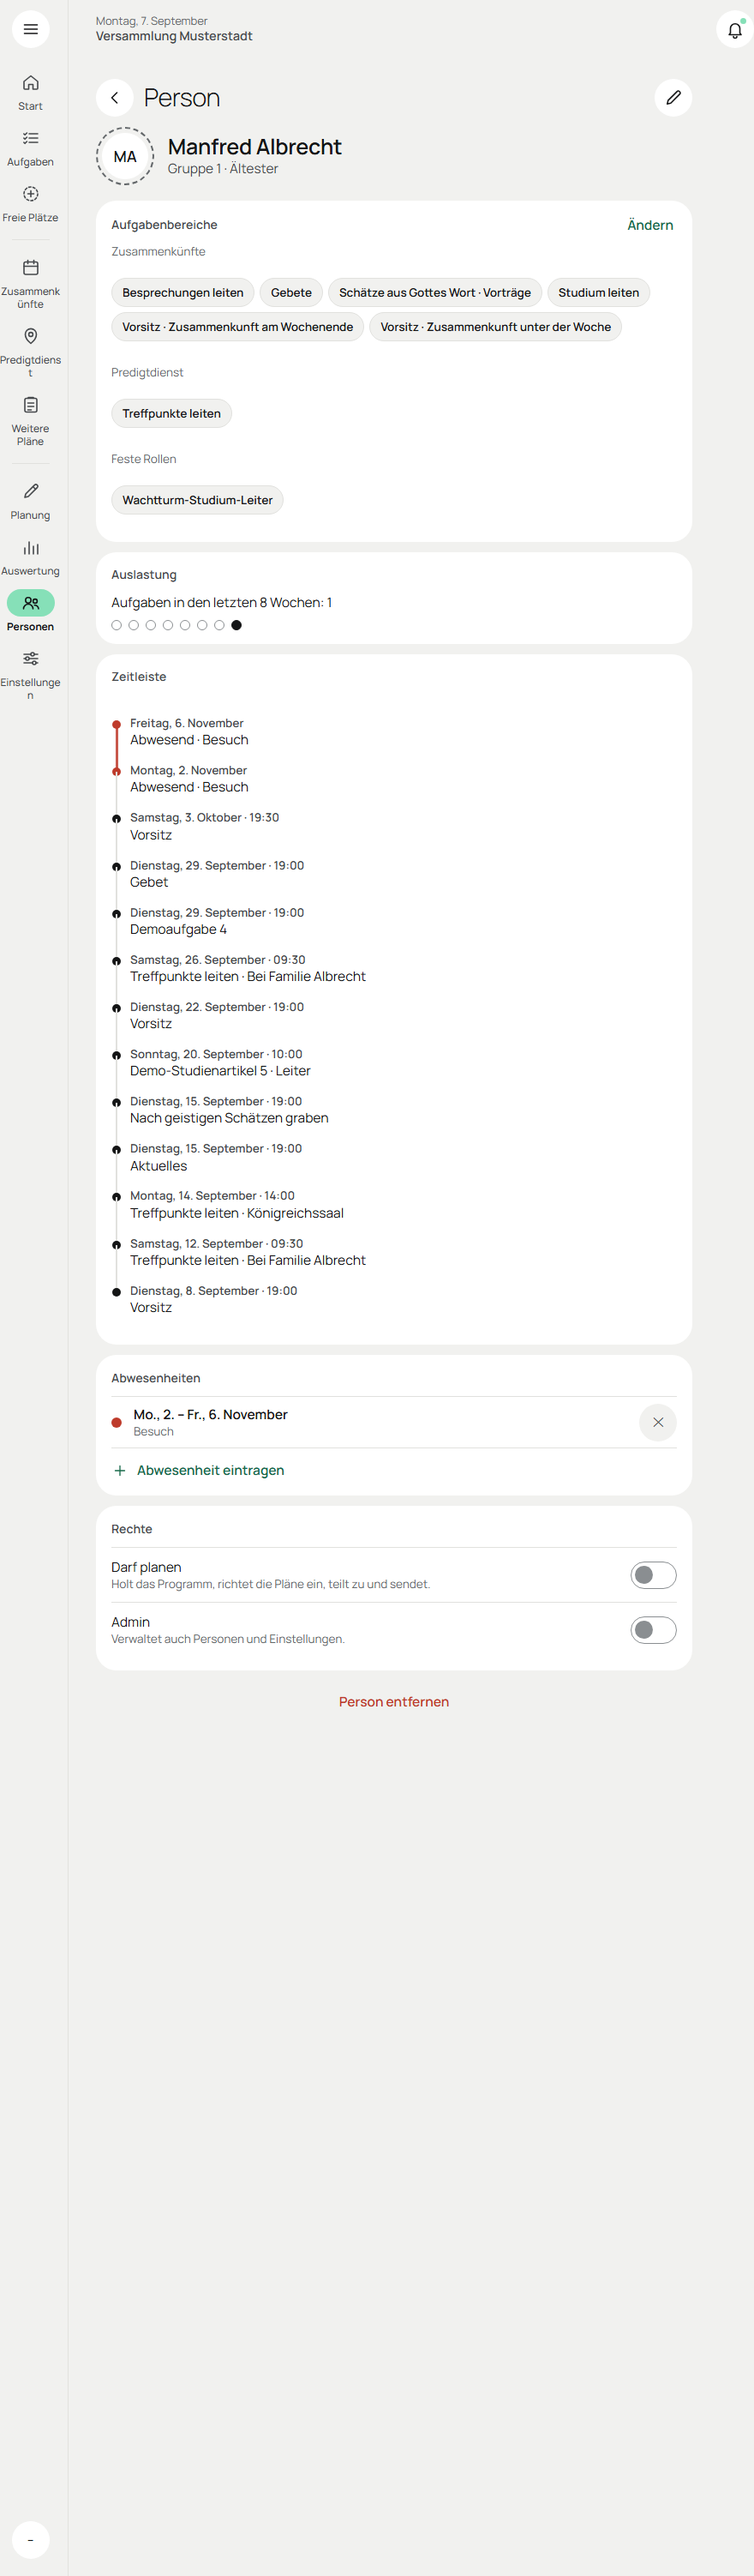
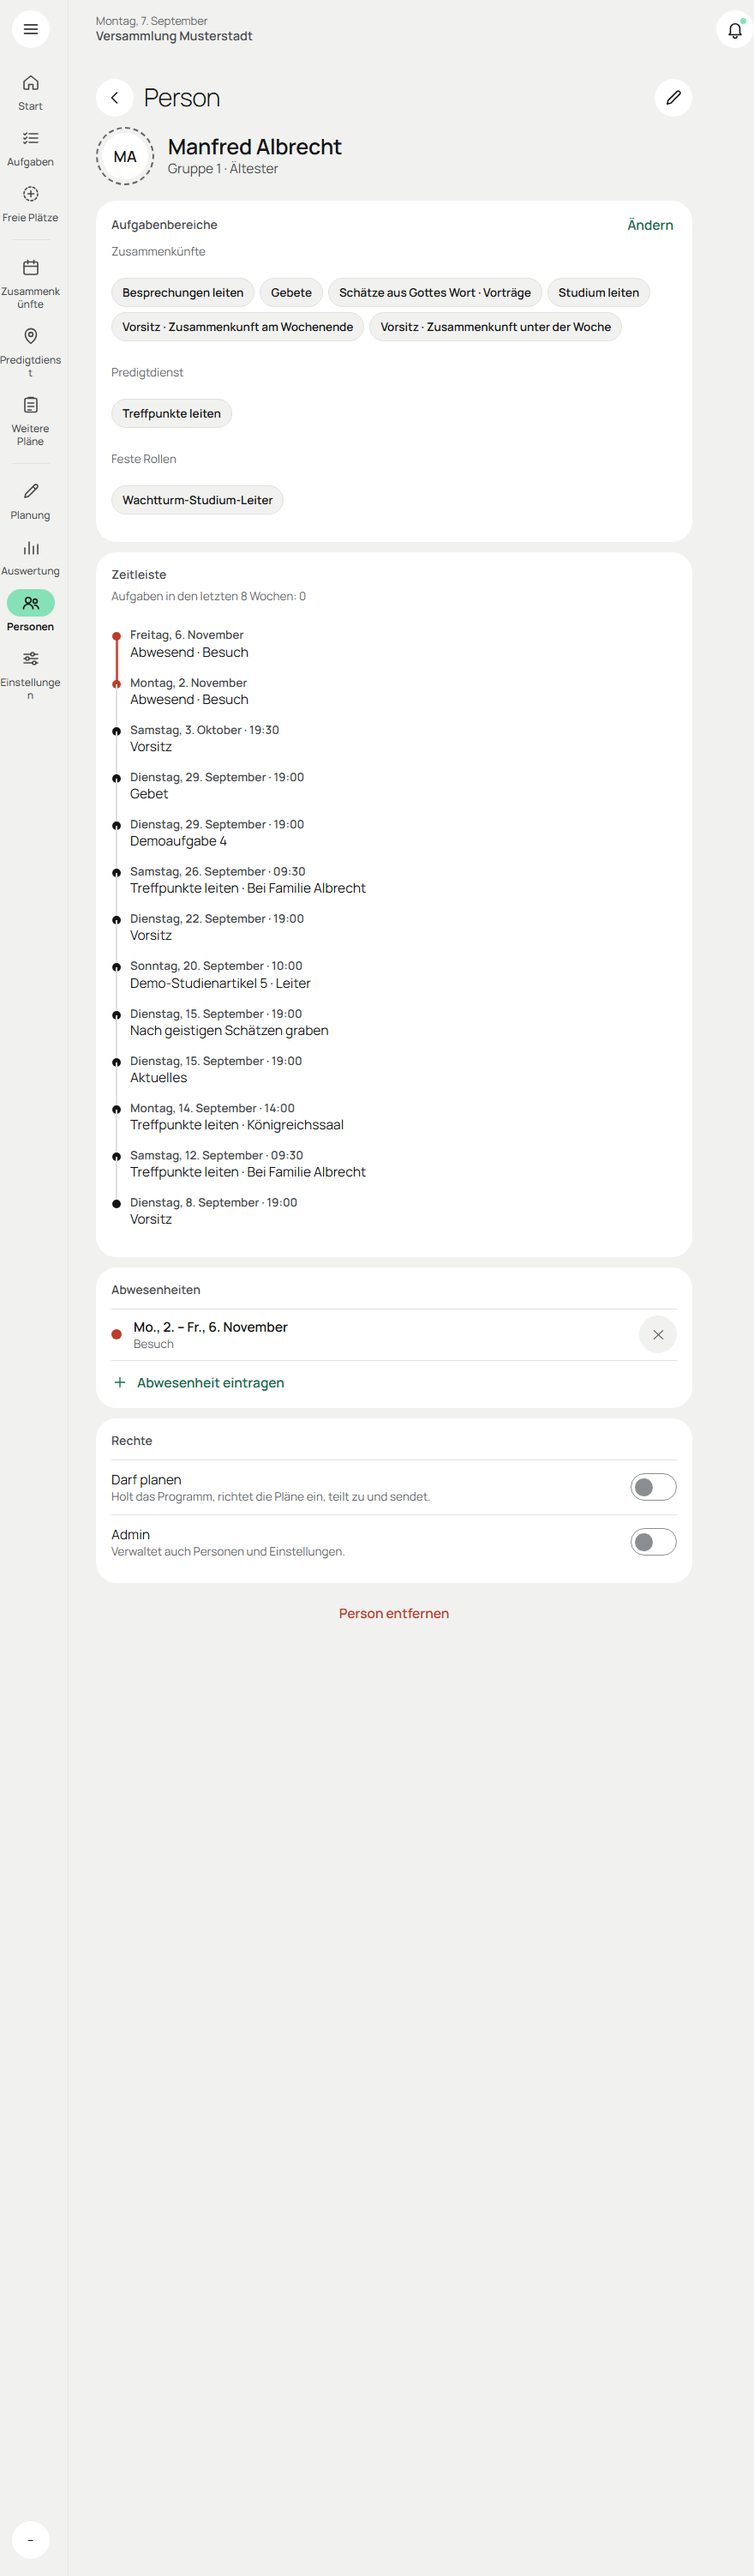
Person: Karte „Auslastung" fort, die Zahl steht unter der Zeitleiste (T136)
Betreiber am 24. Oktober: Die Zahl der Auslastung widersprach der Zahl der
gefüllten Kreise, und ob vergangene oder auch kommende Aufgaben gemeint
waren, sah man nicht. Ursache: Die Zahl zählte Aufgaben, ein Kreis nur, dass
die Woche eine hatte; die laufende Woche zählte mit, auch was in ihr noch
kommt. Entschieden: Karte streichen.

- Unter dem Titel der Zeitleiste steht „Aufgaben in den letzten 8 Wochen: n"
  — n ist, was in der Leiste blass dasteht, ohne Abwesenheiten, also an der
  Liste nachzuzählen. Die acht Wochen sind die der Leiste (`WOCHEN_ZURUECK`).
- Fort: `AuslastungKarte`, `aufgabenJeWoche` mit Tests, die Stile der Kreise,
  der Schlüssel `auslastung` in zwölf Sprachen; ein Eintrag der Mutationsprobe
  ist mit der Regel gegangen.
- Handbuch für Planer, Bild „planer-person-detail" neu.

Geprüft: tsc -b, oxlint, vitest (7036 Tests; neu: Zahl = blasse Zeilen ohne
Abwesenheit, Karte fort), Build, Mutationsprobe (3 Regeln bewacht),
Entwicklerseite: Zahl unter dem Titel, keine Fehler in der Konsole.

Changed region(s): [[0.1534, 0.2167, 0.4602, 0.6501], [0.8284, 0.5573, 0.8898, 0.6501]]

diff --git a/src/personen/PersonDetail.tsx b/src/personen/PersonDetail.tsx
@@ -1,14 +1,11 @@
 import { useState } from 'react'
 import { useApp } from '../app/context'
 import { istAngemeldet, kontoGehtMit } from '../app/eigene-person'
-import { useKalendertag } from '../app/useKalendertag'
 import { Zeichen } from '../bausteine/Zeichen'
 import { AbwesenheitenKarte } from '../components/AbwesenheitenKarte'
 import { EntfernenKnopf } from '../components/EntfernenKnopf'
 import { UnteransichtKopf } from '../components/UnteransichtKopf'
-import { aufgabenJeWoche } from '../data/auslastung'
 import { initials, personLabel } from '../data/helpers'
-import { montagVon } from '../data/meeting-dates'
 import type { Person } from '../data/types'
 import { LOCALES } from '../i18n/langs'
 import { ROLE_KEY } from '../i18n/ui'
@@ -20,15 +17,12 @@ import { PersonBearbeitenBlatt } from './PersonBearbeitenBlatt'
 import { PersonTimeline } from './PersonTimeline'
 import { RechteKarte } from './PrivToggle'
 
-/** Über wie viele Wochen die Auslastung zurückblickt (Entwurf `GPerson`). */
-const AUSLASTUNG_WOCHEN = 8
-
 /**
  * **Eine Person** (T121, Entwurf `GPerson`): oben Name, Gruppe und Rolle, der
  * Stift öffnet „Person bearbeiten". Darunter das Konto als Spur, die
- * Aufgabenbereiche als Chips („Ändern" öffnet die Schalter), die Auslastung
- * der letzten Wochen, die Zeitleiste, die Abwesenheiten und die Rechte — zuletzt
- * „Person entfernen".
+ * Aufgabenbereiche als Chips („Ändern" öffnet die Schalter), die Zeitleiste
+ * (mit der Zahl der letzten Wochen, seit T136 statt der Karte „Auslastung"),
+ * die Abwesenheiten und die Rechte — zuletzt „Person entfernen".
  *
  * Am Handy eine Unteransicht der Liste mit Zurück; am Desktop steht sie rechts
  * neben der Liste (`spalte`), dann ohne Zurück.
@@ -71,7 +65,6 @@ export function PersonDetail({ person, spalte = false }: { person: Person; spalt
 
       {istAngemeldet(state) && <KontoCard person={person} />}
       <BereicheKarte person={person} onAendern={() => setBlatt('bereiche')} />
-      <AuslastungKarte person={person} />
       <PersonTimeline person={person} />
       <AbwesenheitenKarte person={person} />
       <RechteKarte person={person} update={update} />
@@ -123,30 +116,6 @@ function BereicheKarte({ person, onAendern }: { person: Person; onAendern: () =>
           </ul>
         </div>
       ))}
-    </section>
-  )
-}
-
-/**
- * **Auslastung**: wie viele Aufgaben in den letzten Wochen, je Woche ein Punkt —
- * voll, wo die Person dran war (gezählt wie beim Zuteilen). Die Punkte sind
- * ein Bild der Zahl darüber; vorgelesen wird die Zahl.
- */
-function AuslastungKarte({ person }: { person: Person }) {
-  const { state } = useApp()
-  const { t } = useT()
-  const heute = useKalendertag()
-  const jeWoche = aufgabenJeWoche(state.weeks, person, state.services, montagVon(heute), AUSLASTUNG_WOCHEN)
-  const summe = jeWoche.reduce((a, b) => a + b, 0)
-  return (
-    <section className="karte person-karte">
-      <h2 className="abschnitt-titel karte-titel">{t.auslastung}</h2>
-      <p>{fill(t.aufgabenLetzteW, { w: AUSLASTUNG_WOCHEN, n: summe })}</p>
-      <span className="person-wochen" aria-hidden="true">
-        {jeWoche.map((n, i) => (
-          <span key={i} className={n > 0 ? 'person-woche is-voll' : 'person-woche'} />
-        ))}
-      </span>
     </section>
   )
 }

diff --git a/src/personen/PersonTimeline.test.tsx b/src/personen/PersonTimeline.test.tsx
@@ -7,6 +7,8 @@ import { ENTWICKLER_HEUTE } from '../../tests/testdaten/uhr'
 import { displayName } from '../data/helpers'
 import type { FsInstance } from '../data/types'
 import { dict } from '../i18n/ui'
+import { fill } from '../i18n/useT'
+import { zahlBinden } from '../i18n/zahl-binden'
 import { PersonTimeline } from './PersonTimeline'
 
 /**
@@ -52,6 +54,27 @@ describe('PersonTimeline', () => {
       vi.advanceTimersByTime(2 * 60 * 1000)
     })
     expect(vergangen()).toBeGreaterThan(vorher)
+  })
+
+  it('unter dem Titel steht, wie viel die Person zuletzt hatte — so viele, wie blass in der Leiste stehen (T136)', () => {
+    /*
+     * Statt der Karte „Auslastung": Die Zahl muss sich an der Liste nachzählen
+     * lassen. Die Karte zählte die laufende Woche mit und zeigte je Woche einen
+     * Kreis — Zahl und Kreise widersprachen sich (Betreiber 24.10.2026).
+     * Mittwoch, 16. September: Vorbei sind Di 8.9., Sa 12.9., Mo 14.9. und Di
+     * 15.9. (zwei Aufgaben); die Abwesenheit davor zählt nicht.
+     */
+    vi.useFakeTimers({ toFake: ['Date'] })
+    vi.setSystemTime(new Date(2026, 8, 16, 9, 0))
+    const t = dict('de')
+    const demo: AppState = { ...demoZustand(), dataStatus: 'ready' }
+    const { container } = zeige({
+      ...demo,
+      absences: [{ id: 'a', personId: 'p1', userId: null, from: '2026-09-02', to: '2026-09-02', reason: '' }],
+    })
+    const blass = container.querySelectorAll('.zeit li.is-past:not(:has(.zeit-dot--abw))').length
+    expect(blass).toBe(5)
+    expect(container.querySelector('.zeit-zusatz')?.textContent).toBe(zahlBinden(fill(t.aufgabenLetzteW, { w: 8, n: 5 })))
   })
 
   it('ein geleiteter Treffpunkt ohne Ort heißt nur „Treffpunkte leiten" — ohne Punkt am Ende', () => {

diff --git a/src/data/wochenabstand.test.ts b/src/data/wochenabstand.test.ts
@@ -1,6 +1,6 @@
 import { describe, expect, it } from 'vitest'
 import { emptyQualifications } from './helpers'
-import { aufgabenJeWoche, lastFenster, wochenAbstand, workloadOf } from './auslastung'
+import { lastFenster, wochenAbstand, workloadOf } from './auslastung'
 import type { Meeting, Person, Week } from './types'
 
 /**
@@ -86,32 +86,6 @@ describe('lastFenster: das eine Fenster der Auslastung', () => {
     expect(lastFenster(dicht, 1, 1).map((w) => w.start)).toEqual([
       '2026-06-01', '2026-06-08', '2026-06-15',
     ])
-  })
-})
-
-/*
- * **Die Auslastung bei der Person** (T121, Phase 6b): die Aufgaben je Woche
- * über die letzten Wochen bis einschließlich der laufenden — nach Datum wie das
- * Fenster oben. Eine Woche, die nicht geladen ist, zählt null.
- */
-describe('aufgabenJeWoche', () => {
-  const wochen = [
-    woche('2026-06-01', true),
-    woche('2026-06-08', false),
-    woche('2026-06-22', true), // der 15. Juni fehlt
-    woche('2026-06-29', true), // nach der gezählten Woche — zählt nicht
-  ]
-
-  it('die letzten Wochen bis zur laufenden, die älteste zuerst — die fehlende zählt null', () => {
-    expect(aufgabenJeWoche(wochen, PERSON, [], '2026-06-22', 4)).toEqual([1, 0, 0, 1])
-  })
-
-  it('reicht weiter zurück als der Bestand, stehen dort Nullen', () => {
-    expect(aufgabenJeWoche(wochen, PERSON, [], '2026-06-08', 4)).toEqual([0, 0, 1, 0])
-  })
-
-  it('eine andere Person hat ihre eigenen Wochen', () => {
-    expect(aufgabenJeWoche(wochen, { ...PERSON, id: 'p2', fn: 'C.' }, [], '2026-06-22', 4)).toEqual([0, 0, 0, 0])
   })
 })
 

diff --git a/src/personen/PersonTimeline.tsx b/src/personen/PersonTimeline.tsx
@@ -6,8 +6,9 @@ import { besuchsGruppe } from '../components/gruppenbesuch-anzeige'
 import { Zeitleiste, type ZeitZeile } from '../components/Zeitleiste'
 import { abwesenheitsArt, zeitleisteDatum } from '../components/zeitleiste-gemeinsam'
 import type { Person } from '../data/types'
-import { aufgabenLabel, useT } from '../i18n/useT'
-import { personTimeline, type TimelineEntry } from './person-timeline'
+import { aufgabenLabel, fill, useT } from '../i18n/useT'
+import { zahlBinden } from '../i18n/zahl-binden'
+import { personTimeline, WOCHEN_ZURUECK, type TimelineEntry } from './person-timeline'
 
 /**
  * Zeitleiste einer Person: je Eintrag Datum und Art, die neuesten zuerst,
@@ -58,5 +59,15 @@ export function PersonTimeline({ person }: { person: Person }) {
     vergangen: e.vergangen,
   }))
 
-  return <Zeitleiste label={t.zeitleiste} zeilen={zeilen} />
+  /*
+   * **Wie viel die Person zuletzt hatte** (T136, statt der Karte „Auslastung"):
+   * gezählt wird, was in der Leiste blass dasteht, ohne die Abwesenheiten — die
+   * Zahl lässt sich an der Liste nachzählen. Die Karte zählte die laufende
+   * Woche mit und je Woche einen Kreis; Zahl und Kreise passten nicht
+   * zusammen, und ob Kommendes mitzählte, sah man nicht (Betreiber, 24.10.2026).
+   */
+  const zuletzt = entries.filter((e) => e.vergangen && e.kind !== 'abw').length
+  const zusatz = zahlBinden(fill(t.aufgabenLetzteW, { w: WOCHEN_ZURUECK, n: zuletzt }))
+
+  return <Zeitleiste label={t.zeitleiste} zusatz={zusatz} zeilen={zeilen} />
 }

diff --git a/src/personen/PersonDetail.form.test.tsx b/src/personen/PersonDetail.form.test.tsx
@@ -400,13 +400,13 @@ describe('Aufgabenbereiche', () => {
   })
 })
 
-describe('Auslastung', () => {
-  it('nennt die Aufgaben der letzten acht Wochen und zeigt je Woche einen Punkt', () => {
+describe('Keine Karte „Auslastung" mehr (T136)', () => {
+  it('die Zahl der letzten Wochen steht in der Zeitleiste — die Karte mit den Kreisen ist fort', () => {
+    // Betreiber 24.10.2026: Zahl und Kreise widersprachen sich, und ob Kommendes
+    // mitzählte, sah man nicht. Die Zeitleiste zeigt dieselben acht Wochen.
     const { container } = zeige(person())
-    expect(container.textContent).toContain(fill(t.aufgabenLetzteW, { w: 8, n: 0 }))
-    const punkte = container.querySelector('.person-wochen')!
-    expect(punkte.querySelectorAll('.person-woche')).toHaveLength(8)
-    expect(punkte.querySelectorAll('.person-woche.is-voll')).toHaveLength(0)
+    expect(container.querySelector('.person-wochen')).toBeNull()
+    expect([...container.querySelectorAll('h2')].map((h) => h.textContent)).not.toContain('Auslastung')
   })
 })
 

diff --git a/src/data/auslastung.ts b/src/data/auslastung.ts
@@ -93,26 +93,6 @@ export function workloadOf(weeks: Week[], person: Person, services?: Service[]):
 }
 
 /**
- * **Die Aufgaben einer Person je Woche** — die `anzahl` Wochen bis
- * einschließlich der mit dem Montag `montag`, die älteste zuerst (T121, die
- * Auslastung bei der Person). Gezählt wie beim Zuteilen (`workloadOf`). Eine
- * Woche, die nicht geladen ist, zählt null: Von ihr weiß die App nichts.
- */
-export function aufgabenJeWoche(
-  weeks: readonly Week[],
-  person: Person,
-  services: Service[],
-  montag: string,
-  anzahl: number,
-): number[] {
-  const nachStart = new Map(weeks.map((w) => [w.start, w]))
-  return Array.from({ length: anzahl }, (_, i) => {
-    const woche = nachStart.get(montagNach(montag, i - anzahl + 1))
-    return woche ? workloadOf([woche], person, services) : 0
-  })
-}
-
-/**
  * Radius des Auslastungs-Fensters: so viele Wochen vor und nach der geplanten
  * zählen mit.
  *

diff --git a/src/components/Zeitleiste.tsx b/src/components/Zeitleiste.tsx
@@ -36,11 +36,13 @@ export interface ZeitZeile {
  * Abwesenheit in ihrer eigenen Karte (`AbwesenheitenKarte`). Ohne Zeile bleibt
  * die Karte ganz weg.
  */
-export function Zeitleiste({ label, zeilen }: { label: string; zeilen: readonly ZeitZeile[] }) {
+export function Zeitleiste({ label, zusatz, zeilen }: { label: string; zusatz?: string; zeilen: readonly ZeitZeile[] }) {
   if (zeilen.length === 0) return null
   return (
     <section className="karte zeit-karte">
       <h2 className="abschnitt-titel karte-titel">{label}</h2>
+      {/* Eine Zeile unter dem Titel — bei der Person, wie viel sie zuletzt hatte (T136). */}
+      {zusatz && <p className="klein-text zeit-zusatz">{zusatz}</p>}
       <ol className="zeit">
         {zeilen.map((z) => (
           <li key={z.key} className={zeilenKlassen(z)}>

diff --git a/src/personen/personen.css b/src/personen/personen.css
@@ -432,26 +432,6 @@
   overflow-wrap: anywhere;
 }
 
-/* ---- Auslastung: je Woche ein Punkt --------------------------------------------- */
-
-.person-wochen {
-  display: flex;
-  gap: 8px;
-  padding-block-start: 10px;
-}
-
-.person-woche {
-  width: 12px;
-  height: 12px;
-  border: 1.5px solid var(--umriss);
-  border-radius: 50%;
-}
-
-.person-woche.is-voll {
-  border-color: var(--text);
-  background: var(--text);
-}
-
 /* ---- Person entfernen ------------------------------------------------------------ */
 
 /* Geschärft trägt der Knopf die ganze Rückfrage — sie bricht um, statt hinauszuragen. */

diff --git a/src/i18n/overlays/ru.ts b/src/i18n/overlays/ru.ts
@@ -95,7 +95,6 @@ export default {
   "personBearbeiten": "Изменить данные человека",
   "aendern": "Изменить",
   "spurAngelegt": "В списке",
-  "auslastung": "Загруженность",
   "aufgabenLetzteW": "Заданий за последние {w} недель: {n}",
   "keineAbwesenheiten": "Отсутствий не внесено.",
   "keineBereiche": "Обязанностей пока нет.",

diff --git a/src/i18n/overlays/uk.ts b/src/i18n/overlays/uk.ts
@@ -95,7 +95,6 @@ export default {
   "personBearbeiten": "Редагувати дані людини",
   "aendern": "Змінити",
   "spurAngelegt": "У списку",
-  "auslastung": "Завантаженість",
   "aufgabenLetzteW": "Завдань за останні {w} тижнів: {n}",
   "keineAbwesenheiten": "Відсутностей не внесено.",
   "keineBereiche": "Обов’язків поки немає.",

diff --git a/src/i18n/overlays/ar.ts b/src/i18n/overlays/ar.ts
@@ -93,7 +93,6 @@ export default {
   "personBearbeiten": "تعديل الشخص",
   "aendern": "تغيير",
   "spurAngelegt": "في القائمة",
-  "auslastung": "عبء المهام",
   "aufgabenLetzteW": "التعيينات خلال آخر {w} أسابيع: {n}",
   "keineAbwesenheiten": "لا توجد غيابات مسجّلة.",
   "keineBereiche": "لا توجد مجالات تعيين بعد.",

diff --git a/src/i18n/de.ts b/src/i18n/de.ts
@@ -343,7 +343,6 @@ export const DE = {
     // (8): Für sie stimmt die Mehrzahl in jeder Sprache.
     person: 'Person', personBearbeiten: 'Person bearbeiten', aendern: 'Ändern',
     spurAngelegt: 'Angelegt',
-    auslastung: 'Auslastung',
     aufgabenLetzteW: 'Aufgaben in den letzten {w} Wochen: {n}',
     keineAbwesenheiten: 'Keine eingetragen.',
     keineBereiche: 'Noch keine Aufgabenbereiche.',
